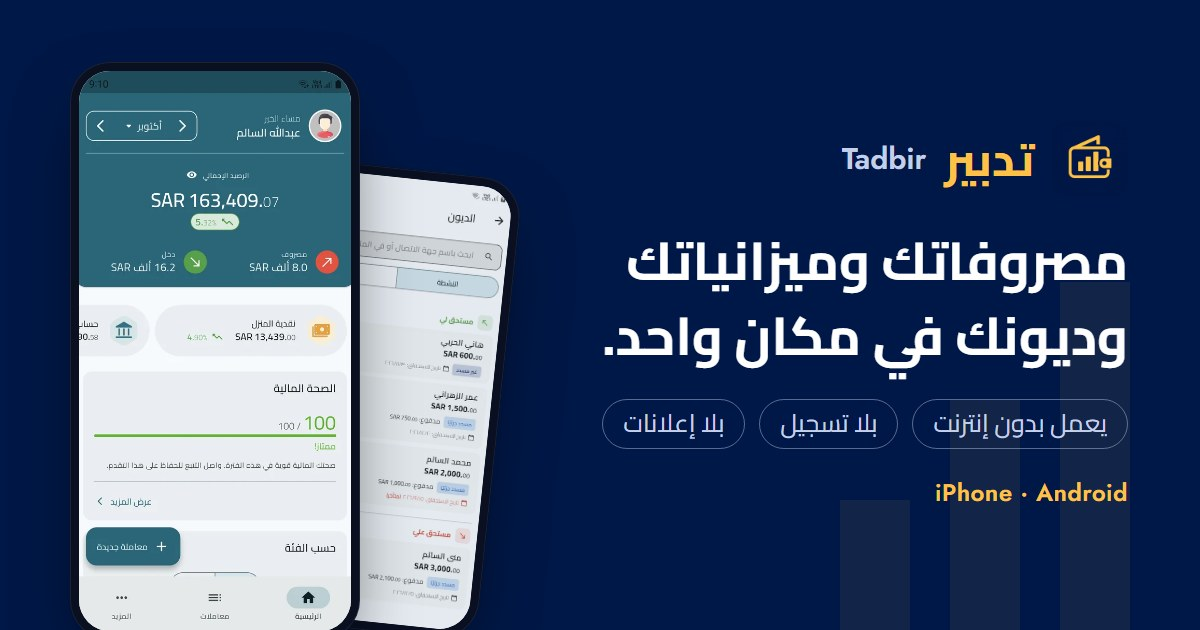
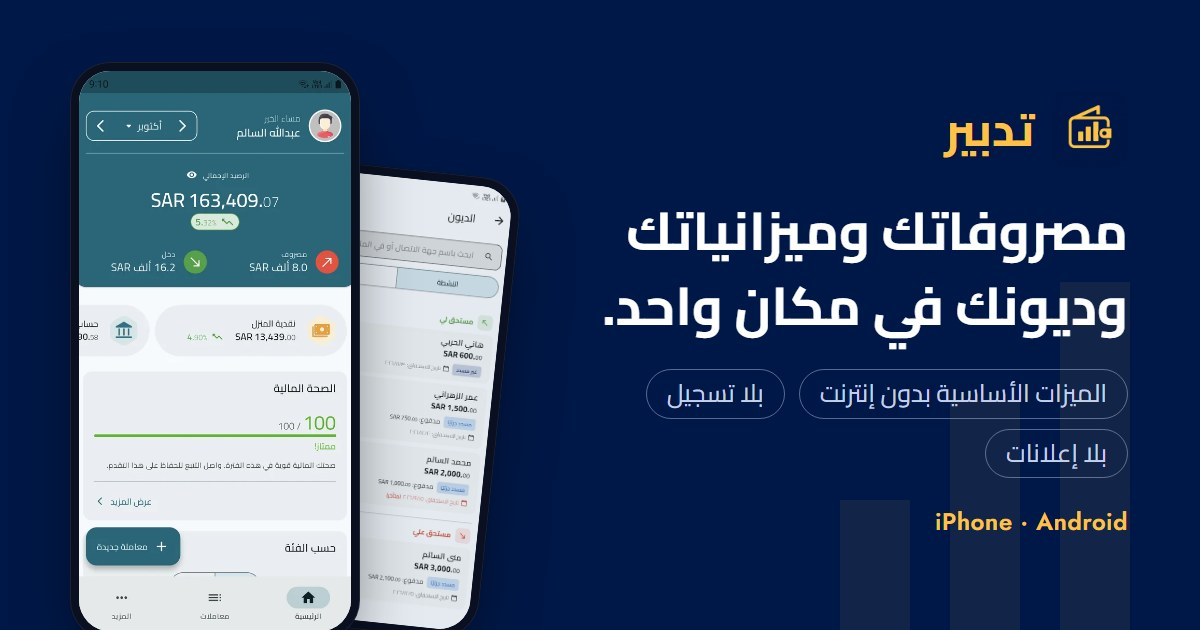
fix(home): show the app name only in the page's language
The English page and picture now say Tadbir, the Arabic ones تدبير.
The rebuilt share pictures also say that the core features work
offline, as the site's other offline claims do.

Changed region(s): [[0.4933, 0.3317, 0.9558, 0.8444], [0.6783, 0.1508, 0.925, 0.3016]]

diff --git a/ar/index.html b/ar/index.html
@@ -7,7 +7,7 @@
 <link rel="icon" href="/assets/img/tadbir-icon.png">
 <link rel="preload" href="/assets/fonts/cairo-Bold.woff2" as="font" type="font/woff2" crossorigin>
 <script>document.documentElement.classList.add('js')</script>
-<link rel="stylesheet" href="/assets/css/home.css?v=2">
+<link rel="stylesheet" href="/assets/css/home.css?v=3">
 <meta property="og:title" content="تدبير: تطبيق مصاريف وميزانية وديون بالعربية">
 <meta property="og:description" content="تطبيق مصاريف وميزانية وديون، مصمم بالعربية منذ البداية. تعمل الميزات الأساسية بدون إنترنت، بلا تسجيل وبلا إعلانات.">
 <meta property="og:type" content="website">
@@ -184,7 +184,7 @@
 
     <div class="hero">
       <div class="hero-text">
-        <p class="kicker"><span>تدبير</span><span lang="en" dir="ltr">Tadbir</span></p>
+        <p class="kicker">تدبير</p>
         <h1>مصروفاتك وميزانياتك وديونك في مكان واحد.</h1>
         <p class="lede">تطبيق مصاريف وميزانية لإدارة أموالك، مصمَّم بالعربية منذ البداية. تعمل ميزاته الأساسية بدون إنترنت، وتُحفظ بياناتك على هاتفك.</p>
         <div class="badges">

diff --git a/index.html b/index.html
@@ -7,7 +7,7 @@
 <link rel="icon" href="/assets/img/tadbir-icon.png">
 <link rel="preload" href="/assets/fonts/jost-SemiBold.woff2" as="font" type="font/woff2" crossorigin>
 <script>document.documentElement.classList.add('js')</script>
-<link rel="stylesheet" href="/assets/css/home.css?v=2">
+<link rel="stylesheet" href="/assets/css/home.css?v=3">
 <meta property="og:title" content="Tadbir: expense tracker and budget app">
 <meta property="og:description" content="An expense tracker and budget app for your spending, budgets, debts and savings goals. The core features work offline, with no sign-up and no ads.">
 <meta property="og:type" content="website">
@@ -183,7 +183,7 @@
 
     <div class="hero">
       <div class="hero-text">
-        <p class="kicker"><span lang="ar" dir="rtl">تدبير</span><span>Tadbir</span></p>
+        <p class="kicker">Tadbir</p>
         <h1>Your spending, budgets and debts in one place.</h1>
         <p class="lede">An expense tracker and budget app. The core features work offline, and your records are stored on your phone.</p>
         <div class="badges">

diff --git a/assets/css/home.css b/assets/css/home.css
@@ -72,8 +72,8 @@ ul { padding: 0; list-style: none; }
 
 .hero { display: grid; grid-template-columns: minmax(0, 1.05fr) minmax(0, .95fr); gap: 40px; align-items: center; padding-block: 44px 0; position: relative; }
 .hero-text { padding-block-end: 64px; display: flex; flex-direction: column; gap: 22px; }
-.kicker { color: var(--gold); font-weight: 600; font-size: 1.05rem; display: flex; gap: 10px; align-items: baseline; }
-.kicker [lang="ar"] { font-weight: 700; font-size: 1.2rem; }
+.kicker { color: var(--gold); font-weight: 600; font-size: 1.05rem; }
+:lang(ar) .kicker { font-weight: 700; font-size: 1.2rem; }
 .hero h1 { font-size: clamp(2.1rem, 4.6vw, 3.5rem); letter-spacing: -.012em; }
 :lang(ar) .hero h1 { letter-spacing: 0; font-size: clamp(2rem, 4.2vw, 3.1rem); }
 .lede { color: var(--on-navy-muted); font-size: 1.2rem; max-width: 34em; }
